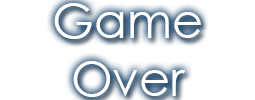
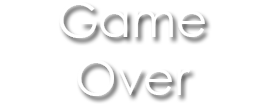
Fixed positions of messages

diff --git a/src/const.hpp b/src/const.hpp
@@ -17,7 +17,7 @@ const struct Const {
         int score_x = 357;
         int score_y = 103;
 
-        int com_x = 102;
+        int com_x = 48;
         int com_y = 253;
     } positions;
 } const_list;
